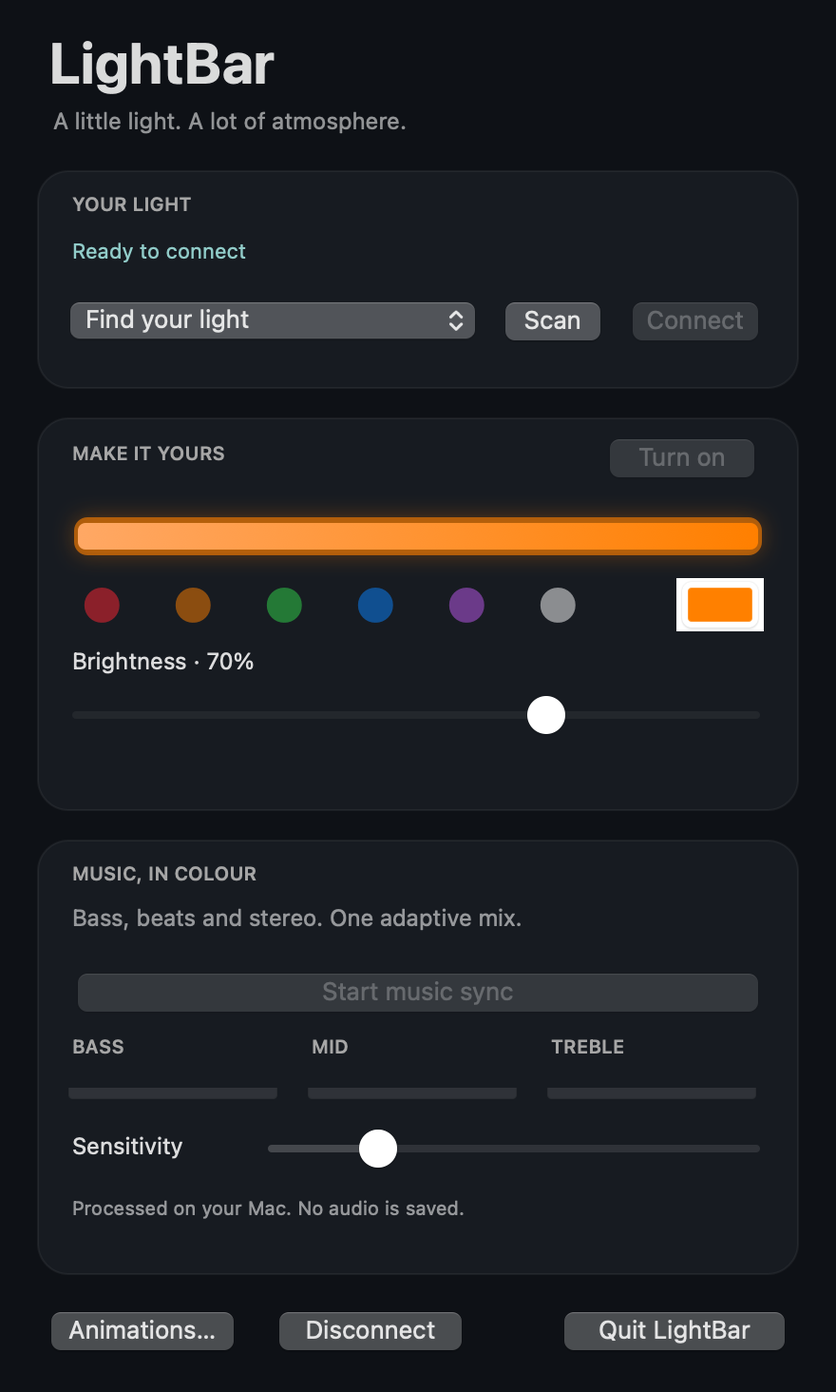
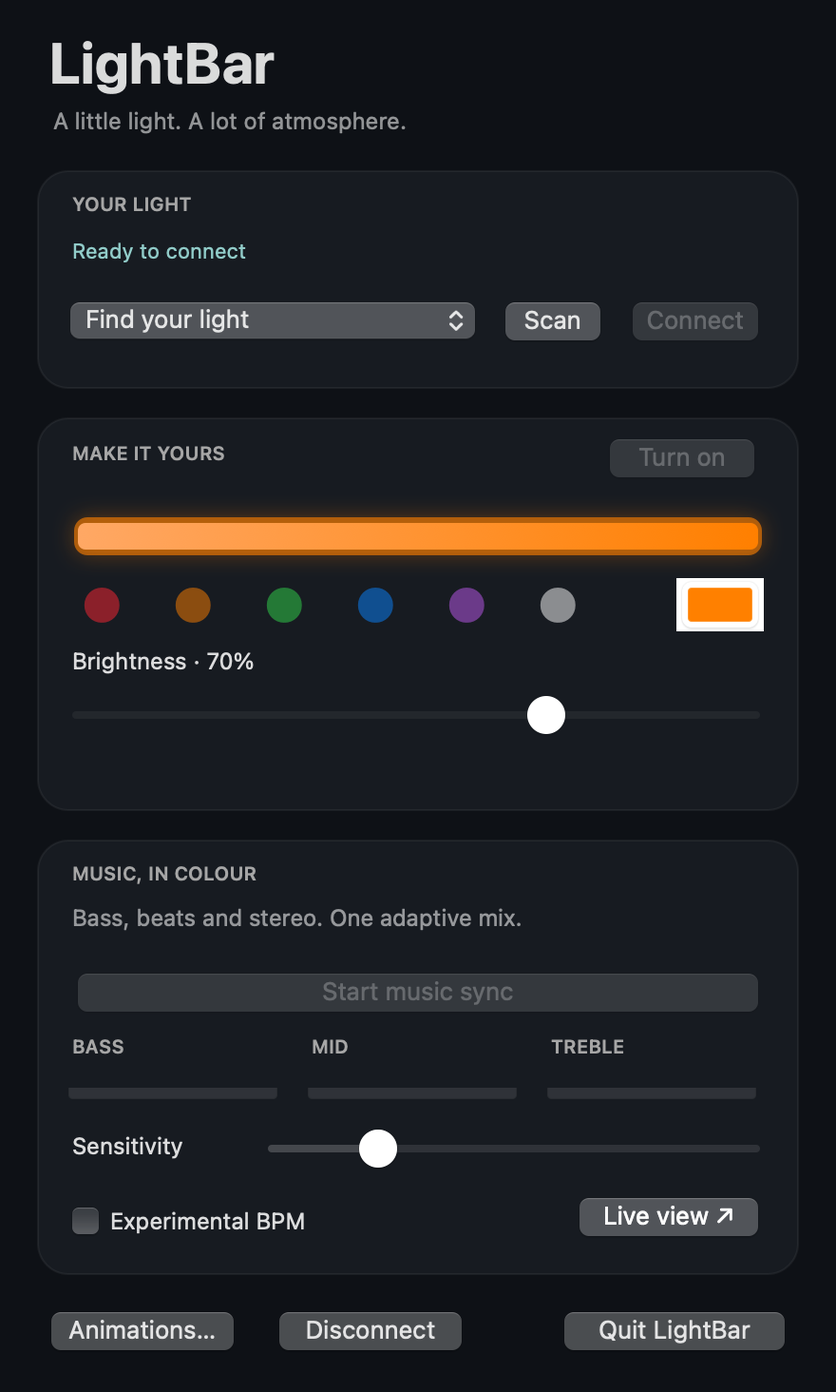
Add optional experimental BPM, energy-driven rendering and spectrum lab

Changed region(s): [[0.0614, 0.8607, 0.5523, 0.8914], [0.675, 0.8607, 0.9205, 0.8914]]

diff --git a/Sources/main.m b/Sources/main.m
@@ -44,6 +44,11 @@ static NSData *Speed(int p) { return Frame(4,2,MAX(0,MIN(100,p)),255,255,255,0);
 @property AudioBands bands;
 @property BOOL audioRequested, audioStarted;
 @property NSUInteger audioGeneration;
+@property MusicEngine musicEngine;
+@property (strong) NSButton *experimentalSwitch;
+@property (strong) NSPanel *experimentPanel;
+@property (strong) NSTextField *tempoLabel, *confidenceLabel;
+@property (strong) MusicSpectrogram *spectrogram;
 @end
 
 @implementation LightBar
@@ -96,7 +101,8 @@ static NSData *Speed(int p) { return Frame(4,2,MAX(0,MIN(100,p)),255,255,255,0);
     self.trebleMeter=[self meterAtX:288 y:152 width:110 color:NSColor.systemTealColor label:@"Treble energy"];
     NSTextField *sensitivity=[self label:@"Sensitivity" x:36 y:115 width:95]; sensitivity.font=[NSFont systemFontOfSize:12];
     self.sensitivity=[NSSlider sliderWithValue:2 minValue:0.5 maxValue:8 target:nil action:nil]; self.sensitivity.frame=NSMakeRect(139,115,263,22); self.sensitivity.accessibilityLabel=@"Audio sensitivity"; [self.popover.contentViewController.view addSubview:self.sensitivity];
-    NSTextField *privacy=[self label:@"Processed on your Mac. No audio is saved." x:36 y:81 width:368]; privacy.font=[NSFont systemFontOfSize:10]; privacy.textColor=NSColor.secondaryLabelColor;
+    self.experimentalSwitch=[NSButton checkboxWithTitle:@"Experimental BPM" target:self action:@selector(toggleExperimental:)]; self.experimentalSwitch.frame=NSMakeRect(36,78,230,24); self.experimentalSwitch.font=[NSFont systemFontOfSize:12]; [self.popover.contentViewController.view addSubview:self.experimentalSwitch];
+    [self button:@"Live view ↗" action:@selector(showExperiment:) x:298 y:77 width:108];
     [self button:@"Animations…" action:@selector(showAnimations:) x:20 y:17 width:110];
     [self button:@"Disconnect" action:@selector(disconnect:) x:140 y:17 width:110];
     [self button:@"Quit LightBar" action:@selector(quit:) x:290 y:17 width:130];
@@ -106,6 +112,24 @@ static NSData *Speed(int p) { return Frame(4,2,MAX(0,MIN(100,p)),255,255,255,0);
     NSArray *keys=[[effects allKeys] sortedArrayUsingComparator:^NSComparisonResult(NSString *a,NSString *b){ return [@([a intValue]) compare:@([b intValue])]; }];
     for(NSString *key in keys) { [self.modes addItemWithTitle:effects[key]]; self.modes.lastItem.tag=key.integerValue; }
     self.speed=[NSSlider sliderWithValue:50 minValue:0 maxValue:100 target:self action:@selector(speedChanged:)]; self.speed.continuous=NO;
+}
+- (void)toggleExperimental:(id)sender {
+    self.musicEngine=(MusicEngine){0}; [self.spectrogram clear];
+    self.tempoLabel.stringValue=@"Listening for a beat…"; self.confidenceLabel.stringValue=@"Estimate needs several seconds of steady rhythm.";
+    if(self.experimentalSwitch.state==NSControlStateValueOn) [self showExperiment:nil];
+}
+- (void)showExperiment:(id)sender {
+    if(!self.experimentPanel) {
+        self.experimentPanel=[[NSPanel alloc] initWithContentRect:NSMakeRect(0,0,480,290) styleMask:NSWindowStyleMaskTitled|NSWindowStyleMaskClosable backing:NSBackingStoreBuffered defer:NO]; self.experimentPanel.releasedWhenClosed=NO; self.experimentPanel.hidesOnDeactivate=NO; self.experimentPanel.title=@"Music lab · Experimental"; self.experimentPanel.appearance=[NSAppearance appearanceNamed:NSAppearanceNameDarkAqua];
+        self.experimentPanel.contentView=[[MusicLabCanvas alloc] initWithFrame:NSMakeRect(0,0,480,290)];
+        NSView *view=self.experimentPanel.contentView;
+        self.tempoLabel=[NSTextField labelWithString:@"Listening for a beat…"]; self.tempoLabel.font=[NSFont systemFontOfSize:24 weight:NSFontWeightSemibold]; self.tempoLabel.frame=NSMakeRect(24,236,432,34); [view addSubview:self.tempoLabel];
+        self.confidenceLabel=[NSTextField labelWithString:@"Enable Experimental BPM and start music sync."]; self.confidenceLabel.font=[NSFont systemFontOfSize:11]; self.confidenceLabel.textColor=NSColor.secondaryLabelColor; self.confidenceLabel.frame=NSMakeRect(24,207,432,22); [view addSubview:self.confidenceLabel];
+        self.spectrogram=[[MusicSpectrogram alloc] initWithFrame:NSMakeRect(24,63,432,132)]; self.spectrogram.accessibilityLabel=@"Frequency history: bass at bottom, treble at top, newest at right"; [view addSubview:self.spectrogram];
+        NSTextField *legend=[NSTextField labelWithString:@"Bass ↓   Treble ↑                      Newest sound →"]; legend.font=[NSFont systemFontOfSize:10]; legend.textColor=NSColor.secondaryLabelColor; legend.frame=NSMakeRect(24,38,432,20); [view addSubview:legend];
+        NSTextField *note=[NSTextField labelWithString:@"Whole-bar output · tempo can be half or double the song’s beat."]; note.font=[NSFont systemFontOfSize:10]; note.textColor=NSColor.secondaryLabelColor; note.frame=NSMakeRect(24,12,440,20); [view addSubview:note]; [self.experimentPanel center];
+    }
+    [self.experimentPanel makeKeyAndOrderFront:nil];
 }
 - (void)showAnimations:(NSButton *)sender {
     if(!self.writer) return;
@@ -129,10 +153,11 @@ static NSData *Speed(int p) { return Frame(4,2,MAX(0,MIN(100,p)),255,255,255,0);
     self.panel.appearance=[NSAppearance appearanceNamed:NSAppearanceNameDarkAqua];
     self.panel.titlebarAppearsTransparent=YES; self.panel.backgroundColor=[NSColor colorWithSRGBRed:0.055 green:0.065 blue:0.085 alpha:1];
     self.panel.contentViewController=self.popover.contentViewController;
-    if([NSProcessInfo.processInfo.arguments containsObject:@"--preview"]) {
+    if([NSProcessInfo.processInfo.arguments containsObject:@"--preview"] || [NSProcessInfo.processInfo.arguments containsObject:@"--preview-experiment"]) {
         self.status.stringValue=@"Ready to connect";
         [self.panel.contentView layoutSubtreeIfNeeded];
         NSView *view=self.popover.contentViewController.view;
+        if([NSProcessInfo.processInfo.arguments containsObject:@"--preview-experiment"]) { [self showExperiment:nil]; view=self.experimentPanel.contentView; }
         NSBitmapImageRep *rep=[view bitmapImageRepForCachingDisplayInRect:view.bounds];
         [view cacheDisplayInRect:view.bounds toBitmapImageRep:rep];
         [[rep representationUsingType:NSBitmapImageFileTypePNG properties:@{}] writeToFile:@"/private/tmp/LightBar-preview.png" atomically:YES];
@@ -241,11 +266,15 @@ static NSData *Speed(int p) { return Frame(4,2,MAX(0,MIN(100,p)),255,255,255,0);
 - (void)toggleAudio:(id)sender {
     if(self.audioRequested) { [self stopAudioRestoring:YES]; return; }
     if(!self.writer) return;
-    self.audioRequested=YES; self.audioStarted=NO; NSUInteger generation=++self.audioGeneration;
+    self.musicEngine=(MusicEngine){0}; [self.spectrogram clear]; self.audioRequested=YES; self.audioStarted=NO; NSUInteger generation=++self.audioGeneration;
     self.audioButton.title=@"Cancel audio setup"; [self showStatus:@"Allow macOS recording permission to react to audio"];
     self.audio=[AudioCapture new]; __weak LightBar *weakSelf=self;
     self.audio.onLevel=^(double rms){ LightBar *owner=weakSelf; if(!owner.audioRequested) return; owner.audioPeak=MAX(owner.audioPeak,rms); owner.lastAudioSample=NSProcessInfo.processInfo.systemUptime; };
-    self.audio.onBands=^(AudioBands bands){ LightBar *owner=weakSelf; if(owner.audioRequested) owner.bands=bands; };
+    self.audio.onBands=^(AudioBands bands){
+        LightBar *owner=weakSelf; if(!owner.audioRequested) return; owner.bands=bands;
+        if(owner.experimentalSwitch.state==NSControlStateValueOn) { MusicEngine engine=owner.musicEngine; double gain=owner.sensitivity.doubleValue; MusicFeed(&engine,NSProcessInfo.processInfo.systemUptime,AudioTarget(bands.bass,gain),AudioTarget(bands.mid,gain),AudioTarget(bands.treble,gain)); owner.musicEngine=engine; }
+    };
+    self.audio.onSpectrum=^(NSArray<NSNumber *> *bins){ LightBar *owner=weakSelf; if(owner.audioRequested && owner.experimentalSwitch.state==NSControlStateValueOn) [owner.spectrogram appendSpectrum:bins]; };
     self.audio.onStarted=^{
         LightBar *owner=weakSelf; if(!owner||!owner.audioRequested||generation!=owner.audioGeneration) return;
         owner.audioStarted=YES; owner.audioButton.title=@"Stop music sync";
@@ -284,6 +313,12 @@ static NSData *Speed(int p) { return Frame(4,2,MAX(0,MIN(100,p)),255,255,255,0);
     double blue=mid*0.85+high+MAX(0,pan)*0.15*level;
     double peak=MAX(0.001,MAX(red,MAX(green,blue)));
     NSColor *c=[NSColor colorWithSRGBRed:MIN(1,red/peak) green:MIN(1,green/peak) blue:MIN(1,blue/peak) alpha:1];
+    if(self.experimentalSwitch.state==NSControlStateValueOn) {
+        MusicEngine engine=self.musicEngine; MusicOutput output=MusicRender(&engine,now,bass,mid,high,level,pan); self.musicEngine=engine;
+        c=[NSColor colorWithSRGBRed:output.r green:output.g blue:output.b alpha:1]; self.audioEnvelope=output.intensity;
+        self.tempoLabel.stringValue=output.confidence>0.35?[NSString stringWithFormat:@"≈ %.0f BPM",output.bpm]:@"Listening for a beat…";
+        self.confidenceLabel.stringValue=output.confidence>0.35?[NSString stringWithFormat:@"%.0f%% rhythm confidence · colour follows song energy",output.confidence*100]:@"Following the spectrum while the beat estimate settles.";
+    }
     self.preview.lightColor=c; self.preview.intensity=self.audioEnvelope; self.preview.needsDisplay=YES;
     if(self.pending.count||!self.light.canSendWriteWithoutResponse) return;
     c=[c colorUsingColorSpace:NSColorSpace.sRGBColorSpace];
@@ -294,6 +329,7 @@ static NSData *Speed(int p) { return Frame(4,2,MAX(0,MIN(100,p)),255,255,255,0);
     if(!self.audioRequested && !self.audio) return;
     BOOL started=self.audioStarted; self.audioRequested=NO; self.audioStarted=NO; self.audioGeneration++;
     [self.audioTimer invalidate]; self.audioTimer=nil; [self.audio stop]; self.audio=nil;
+    self.musicEngine=(MusicEngine){0}; [self.spectrogram clear]; self.tempoLabel.stringValue=@"Music sync stopped"; self.confidenceLabel.stringValue=@"Start music sync to estimate the beat.";
     self.bands=(AudioBands){0}; self.audioPeak=0; self.audioEnvelope=0; self.averageLevel=0; self.beatGlow=0; self.lastBeat=0; self.bassMeter.doubleValue=0; self.midMeter.doubleValue=0; self.trebleMeter.doubleValue=0; self.audioButton.title=@"Start music sync";
     if(restore && started && self.writer && self.light.state==CBPeripheralStateConnected) {
         [self.pending removeAllObjects];
@@ -330,6 +366,7 @@ int main(int argc,const char *argv[]) {
             ok=ok && lowBands.bass>lowBands.treble*3 && highBands.treble>highBands.bass*3 && lowBands.left>0.3 && lowBands.right<0.001;
             printf("Frequency and stereo checks: %s\n",ok?"PASS":"FAIL");
             printf("Audio level, silence, sensitivity, and decay checks: %s\n",ok?"PASS":"FAIL");
+            ok=MusicEngineTests() && ok;
             printf("Protocol frame checks: %s\n",ok?"PASS":"FAIL"); return ok?0:1;
         }
         NSApplication *app=[NSApplication sharedApplication]; [app setActivationPolicy:NSApplicationActivationPolicyAccessory];

diff --git a/Sources/MusicEngine.m b/Sources/MusicEngine.m
@@ -1,0 +1,101 @@
+#import "MusicEngine.h"
+#import <Accelerate/Accelerate.h>
+#include <math.h>
+#include <stdio.h>
+#include <string.h>
+static double clamp(double x,double lo,double hi){ return fmin(hi,fmax(lo,isfinite(x)?x:0)); }
+static double at(MusicEngine *e,int back){ return e->history[(e->cursor-1-back+MUSIC_HISTORY)%MUSIC_HISTORY]; }
+static void estimate(MusicEngine *e,double now) {
+    e->lastEstimate=now; if(e->count<200) return;
+    int n=e->count; double mean=0; for(int i=0;i<n;i++) mean+=at(e,i); mean/=n;
+    double best=0; int lagBest=0; double correlations[52]={0};
+    for(int lag=16;lag<=51;lag++) {
+        double dot=0,a=0,b=0;
+        for(int i=0;i<n-lag;i++){ double x=at(e,i)-mean,y=at(e,i+lag)-mean; dot+=x*y; a+=x*x; b+=y*y; }
+        correlations[lag]=(a*b>1e-12)?dot/sqrt(a*b):0;
+    }
+    for(int lag=17;lag<=50;lag++) {
+        double score=correlations[lag]-lag*0.0008;
+        if(score>best){best=score;lagBest=lag;}
+    }
+    if(lagBest && best>0.18) {
+        double a=correlations[lagBest-1],b=correlations[lagBest],c=correlations[lagBest+1];
+        double offset=fabs(a-2*b+c)>1e-9?clamp(0.5*(a-c)/(a-2*b+c),-0.5,0.5):0;
+        double bpm=clamp(3000.0/(lagBest+offset),60,180);
+        if(e->confidence>0.35 && fabs(bpm-e->bpm)<8) e->bpm=e->bpm*0.65+bpm*0.35; else e->bpm=bpm;
+        e->confidence=clamp(best,0,1)*clamp((n-150)/250.0,0,1);
+    } else e->confidence*=0.6;
+}
+void MusicFeed(MusicEngine *e,double now,double bass,double mid,double treble) {
+    if(!isfinite(now)) return;
+    double signal=clamp(bass,0,1)*0.8+clamp(treble,0,1)*0.2;
+    double slot=floor(now*50);
+    if(e->count && slot<=e->slot) return;
+    if(e->count && slot-e->slot>25) { memset(e,0,sizeof(*e)); }
+    int steps=e->count?(int)fmin(25,slot-e->slot):1;
+    double novelty=fmax(0,signal-e->previous); e->previous=signal;
+    e->floor=e->floor*0.97+novelty*0.03;
+    if(novelty>fmax(0.025,e->floor*2.0) && now-e->lastOnset>0.24) { e->lastOnset=now; e->pulse=1; }
+    if(signal+mid>0.02) e->lastSignal=now;
+    for(int i=0;i<steps;i++){ e->history[e->cursor]=i==steps-1?novelty:0; e->cursor=(e->cursor+1)%MUSIC_HISTORY; if(e->count<MUSIC_HISTORY)e->count++; }
+    e->slot=slot;
+    if(now-e->lastEstimate>=1) estimate(e,now);
+}
+MusicOutput MusicRender(MusicEngine *e,double now,double bass,double mid,double treble,double level,double pan) {
+    bass=clamp(bass,0,1); mid=clamp(mid,0,1); treble=clamp(treble,0,1); level=clamp(level,0,1); pan=clamp(pan,-1,1);
+    e->energy=e->energy*0.92+level*0.08;
+    double confidence=now-e->lastSignal<2?e->confidence:0;
+    double beat=0;
+    if(confidence>0.35 && e->bpm>0) { double phase=fmod(fmax(0,now-e->lastOnset),60/e->bpm)/(60/e->bpm); beat=exp(-phase*7); }
+    e->pulse*=0.65;
+    double drive=clamp((e->energy-0.12)/0.5,0,1);
+    double accent=fmax(beat*confidence,e->pulse);
+    double intensity=level*(0.55+drive*0.15)+accent*bass*drive*0.35;
+    // Quiet phrases diffuse slowly; louder phrases reveal bass-weighted pulses.
+    double mix=0.08+drive*0.25;
+    double red=bass+mid*0.55+fmax(0,-pan)*level*0.2;
+    double green=bass*0.25+treble*0.75;
+    double blue=mid*0.9+treble+fmax(0,pan)*level*0.2;
+    double peak=fmax(0.001,fmax(red,fmax(green,blue)));
+    e->r+=(red/peak-e->r)*mix; e->g+=(green/peak-e->g)*mix; e->b+=(blue/peak-e->b)*mix;
+    return (MusicOutput){clamp(e->r,0,1),clamp(e->g,0,1),clamp(e->b,0,1),clamp(intensity,0,1),e->bpm,confidence};
+}
+void MusicSpectrum(const float *samples,double rate,float output[MUSIC_BINS]) {
+    memset(output,0,sizeof(float)*MUSIC_BINS); if(rate<8000) return;
+    float window[MUSIC_FFT],input[MUSIC_FFT],real[MUSIC_FFT/2],imag[MUSIC_FFT/2];
+    vDSP_hann_window(window,MUSIC_FFT,vDSP_HANN_NORM);
+    vDSP_vmul(samples,1,window,1,input,1,MUSIC_FFT);
+    DSPSplitComplex split={real,imag}; vDSP_ctoz((const DSPComplex *)input,2,&split,1,MUSIC_FFT/2);
+    FFTSetup setup=vDSP_create_fftsetup(11,kFFTRadix2); if(!setup) return;
+    vDSP_fft_zrip(setup,&split,1,11,FFT_FORWARD); imag[0]=0;
+    for(int band=0;band<MUSIC_BINS;band++) {
+        double lo=40*pow(400.0,(double)band/MUSIC_BINS),hi=40*pow(400.0,(double)(band+1)/MUSIC_BINS),sum=0;
+        int start=fmax(1,ceil(lo*MUSIC_FFT/rate)),end=fmin(MUSIC_FFT/2,ceil(hi*MUSIC_FFT/rate));
+        for(int k=start;k<end;k++) sum+=real[k]*real[k]+imag[k]*imag[k];
+        output[band]=(float)clamp(sqrt(sum)/MUSIC_FFT*2,0,1);
+    }
+    vDSP_destroy_fftsetup(setup);
+}
+bool MusicEngineTests(void) {
+    bool ok=true;
+    int tempos[]={90,120,150};
+    for(int t=0;t<3;t++) {
+        MusicEngine e={0}; double period=60.0/tempos[t];
+        for(int i=0;i<900;i++){ double now=i/50.0,phase=fmod(now,period); MusicFeed(&e,1000+now,phase<0.06?0.7:0.01,0.1,phase<0.04?0.3:0.01); }
+        bool pass=fabs(e.bpm-tempos[t])<4 && e.confidence>0.35;
+        printf("Synthetic %d BPM: %.1f, confidence %.2f %s\n",tempos[t],e.bpm,e.confidence,pass?"PASS":"FAIL"); ok &= pass;
+    }
+    MusicEngine missing={0};
+    for(int i=0;i<900;i++){ double t=i/50.0; int beat=(int)(t/0.5); double bass=(fmod(t,0.5)<0.06 && beat%7!=0)?0.7:0.01; MusicFeed(&missing,1000+t,bass,0.1,0); }
+    ok &= fabs(missing.bpm-120)<4;
+    MusicOutput stale=MusicRender(&missing,1100,0,0,0,0,0); ok &= stale.confidence==0 && stale.intensity==0;
+    MusicEngine silence={0};
+    for(int i=0;i<700;i++) MusicFeed(&silence,1000+i/50.0,0,0,0);
+    MusicOutput o=MusicRender(&silence,1014,0,0,0,0,0); ok &= o.confidence==0 && o.intensity==0;
+    float tone[MUSIC_FFT],spectrum[MUSIC_BINS];
+    for(int i=0;i<MUSIC_FFT;i++) tone[i]=0.5*sin(2*M_PI*1000*i/48000);
+    MusicSpectrum(tone,48000,spectrum); int peak=0; for(int i=1;i<MUSIC_BINS;i++) if(spectrum[i]>spectrum[peak])peak=i;
+    ok &= peak>=7 && peak<=9;
+    for(int i=0;i<100;i++){ o=MusicRender(&silence,1014+i*0.1,1,1,1,1,1); ok &= isfinite(o.intensity)&&o.intensity<=1&&o.r<=1&&o.g<=1&&o.b<=1; }
+    printf("Tempo, spectrum, silence and bounded output checks: %s\n",ok?"PASS":"FAIL"); return ok;
+}

diff --git a/Sources/AudioCapture.m b/Sources/AudioCapture.m
@@ -3,11 +3,13 @@
 #import <CoreMedia/CoreMedia.h>
 #import <AudioToolbox/AudioToolbox.h>
 
+typedef struct { float samples[MUSIC_FFT], right[MUSIC_FFT]; int used; } SpectrumBuffer;
 @interface AudioCapture ()
 @property(nonatomic, strong) SCStream *stream;
 @property(nonatomic) NSUInteger generation;
 @property(nonatomic) BOOL running;
 @property(nonatomic) BandFilter filter;
+@property(nonatomic) SpectrumBuffer spectrumBuffer;
 @end
 @implementation AudioCapture
 - (void)fail:(NSString *)message {
@@ -42,7 +44,7 @@
     }];
 }
 - (void)stop {
-    self.running=NO; self.generation++; self.filter=(BandFilter){0};
+    self.running=NO; self.generation++; self.filter=(BandFilter){0}; self.spectrumBuffer=(SpectrumBuffer){0};
     SCStream *stream=self.stream; self.stream=nil;
     if(stream) [stream stopCaptureWithCompletionHandler:^(NSError *error){}];
 }
@@ -80,6 +82,20 @@
             if(l&&r) {
                 const float *p=first.mData, *q=(planar&&list->mNumberBuffers>1)?list->mBuffers[1].mData:NULL;
                 for(size_t i=0;i<frames;i++) { l[i]=p[planar?i:i*format->mChannelsPerFrame]; r[i]=q?q[i]:(!planar&&format->mChannelsPerFrame>1?p[i*format->mChannelsPerFrame+1]:l[i]); }
+                if(self.onSpectrum) {
+                    SpectrumBuffer buffer=self.spectrumBuffer;
+                    for(size_t i=0;i<frames;i++) {
+                        buffer.samples[buffer.used]=l[i]; buffer.right[buffer.used++]=r[i];
+                        if(buffer.used==MUSIC_FFT) {
+                            float values[MUSIC_BINS], rightValues[MUSIC_BINS]; MusicSpectrum(buffer.samples,format->mSampleRate,values); MusicSpectrum(buffer.right,format->mSampleRate,rightValues);
+                            for(int b=0;b<MUSIC_BINS;b++) values[b]=sqrtf((values[b]*values[b]+rightValues[b]*rightValues[b])*0.5f);
+                            NSMutableArray *bins=[NSMutableArray arrayWithCapacity:MUSIC_BINS];
+                            for(int b=0;b<MUSIC_BINS;b++) [bins addObject:@(values[b])];
+                            self.onSpectrum(bins); buffer.used=0;
+                        }
+                    }
+                    self.spectrumBuffer=buffer;
+                }
                 BandFilter f=self.filter; AudioBands bands=AnalyzeAudio(&f,l,r,frames,format->mSampleRate); self.filter=f; self.onBands(bands);
             }
             free(l); free(r);

diff --git a/Sources/Appearance.m b/Sources/Appearance.m
@@ -23,3 +23,26 @@
     [gradient drawInBezierPath:[NSBezierPath bezierPathWithRoundedRect:NSInsetRect(rail,2,3) xRadius:4 yRadius:4] angle:0];
 }
 @end
+@implementation MusicSpectrogram
+- (void)clear { self.columns=[NSMutableArray new]; self.needsDisplay=YES; }
+- (void)appendSpectrum:(NSArray<NSNumber *> *)spectrum {
+    if(!self.columns) self.columns=[NSMutableArray new]; [self.columns addObject:spectrum];
+    if(self.columns.count>120) [self.columns removeObjectAtIndex:0]; self.needsDisplay=YES;
+}
+- (void)drawRect:(NSRect)dirty {
+    [[NSColor colorWithSRGBRed:0.035 green:0.04 blue:0.065 alpha:1] setFill]; NSRectFill(self.bounds);
+    CGFloat width=self.bounds.size.width/120, height=self.bounds.size.height/16;
+    NSInteger offset=120-self.columns.count;
+    for(NSInteger x=0;x<(NSInteger)self.columns.count;x++) {
+        NSArray *bins=self.columns[x];
+        for(NSInteger y=0;y<MIN(16,(NSInteger)bins.count);y++) {
+            double value=MIN(1,MAX(0,(20*log10(MAX(0.00001,[bins[y] doubleValue]))+70)/60));
+            [[NSColor colorWithCalibratedHue:0.72-value*0.65 saturation:0.85 brightness:0.08+0.92*value alpha:1] setFill];
+            NSRectFill(NSMakeRect((offset+x)*width,y*height,ceil(width),ceil(height)));
+        }
+    }
+}
+@end
+@implementation MusicLabCanvas
+- (void)drawRect:(NSRect)dirty { [[NSColor colorWithSRGBRed:0.055 green:0.065 blue:0.085 alpha:1] setFill]; NSRectFill(self.bounds); }
+@end

diff --git a/Sources/MusicEngine.h b/Sources/MusicEngine.h
@@ -1,0 +1,15 @@
+#pragma once
+#include <stdbool.h>
+#define MUSIC_HISTORY 600
+#define MUSIC_BINS 16
+#define MUSIC_FFT 2048
+typedef struct {
+    double history[MUSIC_HISTORY]; int count, cursor;
+    double slot, previous, floor, lastEstimate, lastOnset, lastSignal, bpm, confidence;
+    double energy, pulse, hue, r, g, b;
+} MusicEngine;
+typedef struct { double r,g,b,intensity,bpm,confidence; } MusicOutput;
+void MusicFeed(MusicEngine *engine,double time,double bass,double mid,double treble);
+MusicOutput MusicRender(MusicEngine *engine,double time,double bass,double mid,double treble,double level,double pan);
+void MusicSpectrum(const float *samples,double sampleRate,float output[MUSIC_BINS]);
+bool MusicEngineTests(void);

diff --git a/Sources/AudioCapture.h b/Sources/AudioCapture.h
@@ -1,11 +1,13 @@
 #import <Foundation/Foundation.h>
 #import <ScreenCaptureKit/ScreenCaptureKit.h>
 #import "AudioMath.h"
+#import "MusicEngine.h"
 
 // All callbacks and lifecycle calls run on the main queue.
 @interface AudioCapture : NSObject <SCStreamOutput, SCStreamDelegate>
 @property(nonatomic, copy) void (^onLevel)(double rms);
 @property(nonatomic, copy) void (^onBands)(AudioBands bands);
+@property(nonatomic, copy) void (^onSpectrum)(NSArray<NSNumber *> *bins);
 @property(nonatomic, copy) void (^onStarted)(void);
 @property(nonatomic, copy) void (^onError)(NSString *message);
 - (void)start;

diff --git a/Sources/Appearance.h b/Sources/Appearance.h
@@ -5,3 +5,10 @@
 @end
 @interface LightCanvas : NSView
 @end
+@interface MusicSpectrogram : NSView
+@property(nonatomic, strong) NSMutableArray<NSArray<NSNumber *> *> *columns;
+- (void)appendSpectrum:(NSArray<NSNumber *> *)spectrum;
+- (void)clear;
+@end
+@interface MusicLabCanvas : NSView
+@end

diff --git a/RELEASE_NOTES.md b/RELEASE_NOTES.md
@@ -1,19 +1,20 @@
-## Download
+## Experimental BPM + spectrum lab
 
-Download **LightBar-macOS-universal.zip** below, unzip it, move **LightBar.app** to **Applications**, and open it.
+An optional addition to the existing music sync. The experimental switch starts off; enabling it opens the music lab.
 
-Requires macOS 13 or later. Includes Apple Silicon and Intel executables; runtime checks ran on Apple Silicon. Intel runtime is not yet hardware-tested.
+- Estimated BPM with a heuristic rhythm-confidence indicator.
+- Bass-weighted beat accents and energy-dependent pulse strength.
+- Smooth spectral colour diffusion during quiet passages.
+- Stereo-biased colour and brighter accents as the music builds.
+- A scrolling, 16-band frequency history in the app.
+- The existing music reaction remains available with the switch off.
 
-## What changed
+Download **LightBar-macOS-universal.zip**, unzip, and install LightBar.app in Applications. Supports macOS 13+ on Apple Silicon and Intel. Runtime checks ran on Apple Silicon; Intel runtime is untested.
 
-- Redesigned dark interface with connection, colour, and music panels.
-- Custom macOS app icon.
-- One adaptive music mode combining frequency energy, bass accents, and stereo balance.
-- Live bass, midrange, and treble meters.
-- Built-in lamp animations accessible from a separate menu.
+Start music sync and turn on **Experimental BPM**. Give it several seconds of steady rhythm. Tempo estimates can be half/double the song's beat; the search range is approximately 60–180 BPM. Uncertain rhythm uses spectrum/onset response instead. This prerelease needs real-song testing.
 
-Music streaming currently controls the whole bar. Individual regions are not supported. Midrange analysis does not isolate vocals.
+The physical bar is still controlled as one colour; the frequency history is displayed in the app. No per-region control or isolated-vocal detection is claimed. Audio is processed locally without saving or uploading it.
 
-The app is ad-hoc signed, not Apple-notarized. macOS may require Open Anyway in Privacy & Security. Allow Bluetooth and Screen & System Audio Recording for the relevant features. An app update can require removing and re-adding its recording permission entry; always use the installed copy in Applications.
+Synthetic tempo, missing-beat, frequency, stereo, silence, bounded-output, and protocol checks passed. Both Mac architectures were built, the signature was verified, and both panels were visually checked.
 
-Protocol frames, synthetic frequency/stereo analysis, universal architectures, and the app signature were checked. The interface was rendered and visually inspected. Physical light and music response remain dependent on the device.
+The app is ad-hoc signed and not Apple-notarized. As with previous builds, macOS can require Open Anyway and renewed Bluetooth/recording permission for an updated app. Use the installed copy in Applications.

diff --git a/README.md b/README.md
@@ -64,3 +64,15 @@ Diagnostic connection and command events are written locally to `LightBar.log` i
 ## App design
 
 The app has a custom macOS icon, a persistent control panel, and a menu bar shortcut. The screenshot above is a rendered disconnected-state preview, not evidence of a connected light. The new combined effect has automated protocol and signal-analysis coverage; visible behaviour on individual controllers still needs user testing.
+
+## Experimental BPM and spectrum lab (0.4 prerelease)
+
+Start music sync, then enable **Experimental BPM**. This optional addition starts **off** each time the app opens; leave it off for the existing music reaction. **Live view** opens a separate panel with estimated tempo and a scrolling, 16-band frequency history (bass at the bottom, treble at the top, newest sound at the right).
+
+The experimental renderer blends warm bass, violet mids, cyan highs and stereo balance. Quiet phrases diffuse slowly through colours; higher sustained energy brings stronger bass accents and estimated-beat pulses. The lamp still receives a single RGB value for the whole bar at up to 10 Hz. The spectrogram is in the app, not independent regions on the physical lamp.
+
+Tempo estimation uses positive changes in bass/treble energy, resampled to 50 Hz, with autocorrelation over up to 12 seconds. It searches approximately 60–180 BPM and needs several seconds of steady rhythm. Rhythm confidence is a heuristic periodicity score, not a calibrated probability. Uncertain rhythm falls back to spectrum/onset response. Silence suppresses intensity and stale rhythm confidence. Genre targets for the first trial are hip-hop, EDM, pop, and hyperpop; this is not a genre classifier.
+
+Syncopation, tempo changes, weak drums, and half/double-time beats can give an incorrect estimate. There is no isolated-vocal recognition, exact beat-grid guarantee, or real-song accuracy claim. Synthetic 90/120/150 BPM tests, missing-beat recovery, spectrum localisation, silence, and bounded-output checks pass; live songs and physical light response still require user testing.
+
+![Experimental music lab, before audio starts](Docs/experiment.png)
